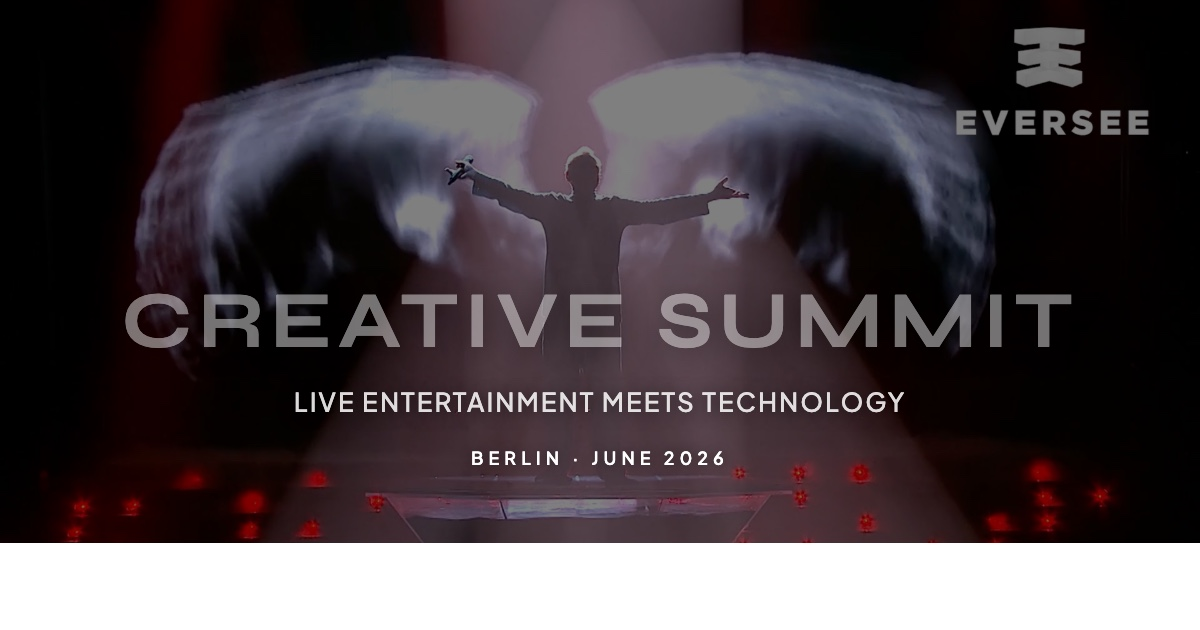
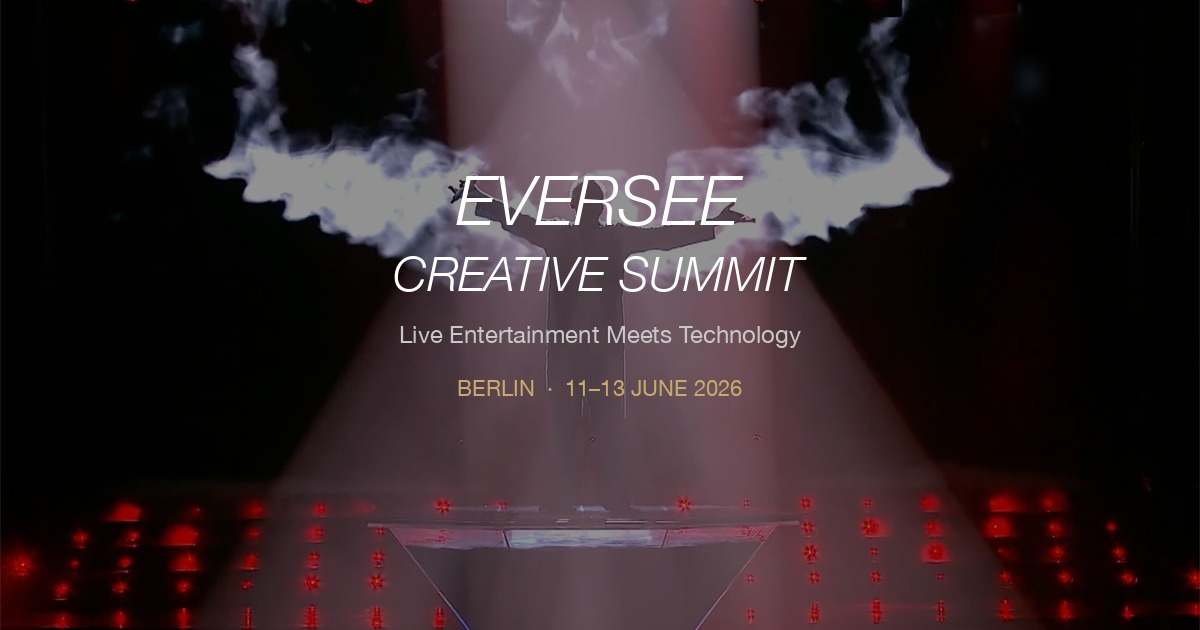
Update OG image and add exact dates to meta tags
New og-image.jpg with event dates, clean crop without white bar.
OG/Twitter meta tags now show "Berlin, 11–13 June 2026".

diff --git a/eversee-new/index.html b/eversee-new/index.html
@@ -3,22 +3,22 @@
 <head>
   <meta charset="UTF-8">
   <meta name="viewport" content="width=device-width, initial-scale=1.0">
-  <title>EVERSEE Creative Summit — Berlin, June 2026</title>
-  <meta name="description" content="EVERSEE Creative Summit — an invite-only B2B brainstorm in Berlin, June 2026. 3 days of speed matching, keynotes and mixed-team sessions at the intersection of live entertainment technology and creative direction.">
+  <title>EVERSEE Creative Summit — Berlin, 11–13 June 2026</title>
+  <meta name="description" content="EVERSEE Creative Summit — an invite-only B2B brainstorm in Berlin, 11–13 June 2026. 3 days of speed matching, keynotes and mixed-team sessions at the intersection of live entertainment technology and creative direction.">
 
   <!-- Open Graph -->
   <meta property="og:type" content="website">
   <meta property="og:site_name" content="EVERSEE">
-  <meta property="og:title" content="EVERSEE Creative Summit — Berlin, June 2026">
-  <meta property="og:description" content="Invite-only B2B brainstorm summit at the intersection of live entertainment technology and creative direction. Berlin, June 2026.">
+  <meta property="og:title" content="EVERSEE Creative Summit — Berlin, 11–13 June 2026">
+  <meta property="og:description" content="Invite-only B2B brainstorm summit at the intersection of live entertainment technology and creative direction. Berlin, 11–13 June 2026.">
   <meta property="og:image" content="https://eversee.de/og-image.jpg">
   <meta property="og:image:width" content="1200">
   <meta property="og:image:height" content="630">
   <meta property="og:url" content="https://eversee.de">
   <meta property="og:locale" content="en_US">
   <meta name="twitter:card" content="summary_large_image">
-  <meta name="twitter:title" content="EVERSEE Creative Summit — Berlin, June 2026">
-  <meta name="twitter:description" content="Invite-only B2B brainstorm summit at the intersection of live entertainment technology and creative direction. Berlin, June 2026.">
+  <meta name="twitter:title" content="EVERSEE Creative Summit — Berlin, 11–13 June 2026">
+  <meta name="twitter:description" content="Invite-only B2B brainstorm summit at the intersection of live entertainment technology and creative direction. Berlin, 11–13 June 2026.">
   <meta name="twitter:image" content="https://eversee.de/og-image.jpg">
   <link rel="canonical" href="https://eversee.de/">
 
